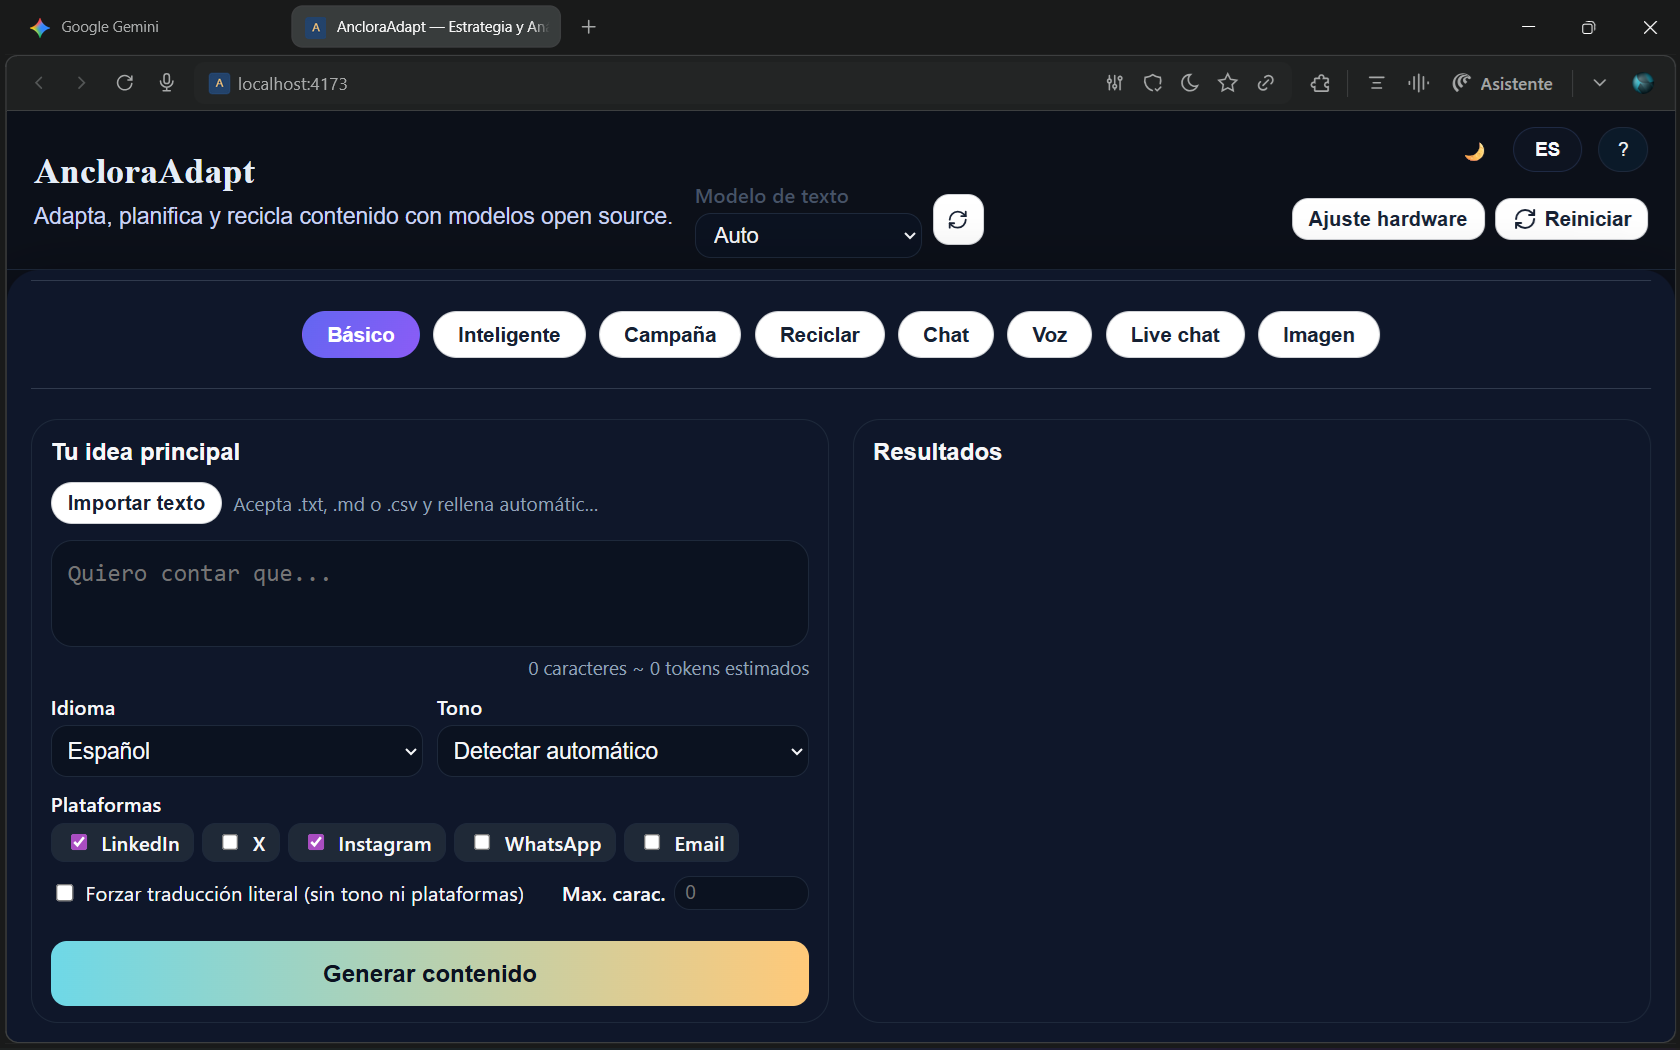
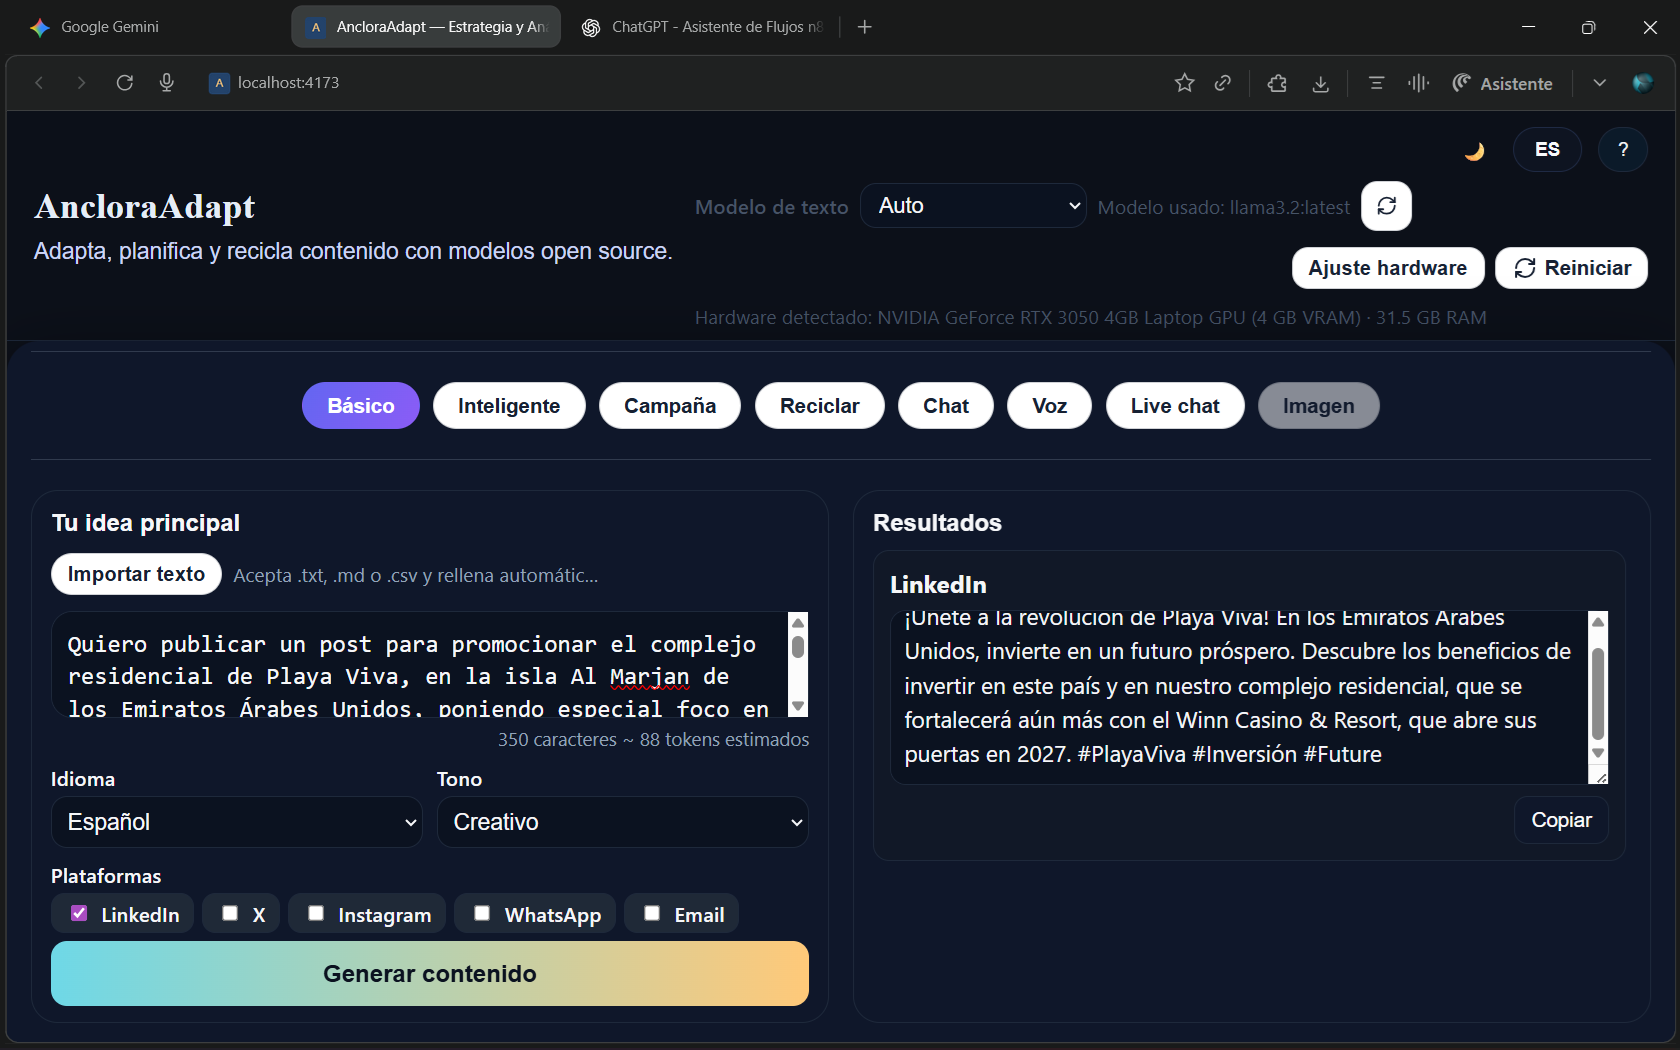
- Reconfiguré la barra superior: el selector del modelo y el botón de actualizar están dentro     del mismo bloque horizontal, así que ahora permanecen alineados cuando se muestra “Modelo     usado”. Tras ellos siguen los botones “Ajuste hardware” y “Reiniciar”.   - La línea de estado inferior (sett

diff --git a/src/components/layout/MainLayout.tsx b/src/components/layout/MainLayout.tsx
@@ -153,56 +153,53 @@ const MainLayout: React.FC<MainLayoutProps> = ({
               >
                 {modelCopy.label || "Modelo Texto"}
               </label>
-              <select
-                id="text-model-select"
-                value={textModelId}
-                onChange={(event) => onTextModelChange(event.target.value)}
-                style={{
-                  ...commonStyles.select,
-                  padding: "6px 10px",
-                  fontSize: "0.9em",
-                  minWidth: "170px",
-                  width: "auto",
-                }}
-              >
-                {modelOptions.map((model) => (
-                  <option key={model} value={model}>
-                    {model === "auto" ? modelCopy.auto || "Auto" : model}
-                  </option>
-                ))}
-              </select>
-              {lastModelUsed && (
-                <span style={commonStyles.settingsHint}>
-                  {(modelCopy.lastUsed || "Modelo usado")}: {lastModelUsed}
-                </span>
-              )}
-              <button
-                type="button"
-                style={{
-                  ...commonStyles.resetButton,
-                  padding: "6px 10px",
-                  width: "38px",
-                  height: "38px",
-                  display: "flex",
-                  alignItems: "center",
-                  justifyContent: "center",
-                }}
-                onClick={() => void onRefreshModels()}
-                disabled={isRefreshingModels}
-                title={modelCopy.refresh}
-                aria-label={modelCopy.refresh}
-                aria-busy={isRefreshingModels}
-              >
-                <RefreshCw
-                  size={16}
+              <div style={{ display: "flex", alignItems: "center", gap: "6px" }}>
+                <select
+                  id="text-model-select"
+                  value={textModelId}
+                  onChange={(event) => onTextModelChange(event.target.value)}
                   style={{
-                    color: "var(--tab-text, #162032)",
-                    animation: isRefreshingModels
-                      ? "spin 0.9s linear infinite"
-                      : undefined,
+                    ...commonStyles.select,
+                    padding: "6px 10px",
+                    fontSize: "0.9em",
+                    minWidth: "170px",
+                    width: "auto",
                   }}
-                />
-              </button>
+                >
+                  {modelOptions.map((model) => (
+                    <option key={model} value={model}>
+                      {model === "auto" ? modelCopy.auto || "Auto" : model}
+                    </option>
+                  ))}
+                </select>
+                <button
+                  type="button"
+                  style={{
+                    ...commonStyles.resetButton,
+                    padding: "6px 10px",
+                    width: "38px",
+                    height: "38px",
+                    display: "flex",
+                    alignItems: "center",
+                    justifyContent: "center",
+                  }}
+                  onClick={() => void onRefreshModels()}
+                  disabled={isRefreshingModels}
+                  title={modelCopy.refresh}
+                  aria-label={modelCopy.refresh}
+                  aria-busy={isRefreshingModels}
+                >
+                  <RefreshCw
+                    size={16}
+                    style={{
+                      color: "var(--tab-text, #162032)",
+                      animation: isRefreshingModels
+                        ? "spin 0.9s linear infinite"
+                        : undefined,
+                    }}
+                  />
+                </button>
+              </div>
             </div>
 
             <div style={commonStyles.settingsActions}>
@@ -235,11 +232,18 @@ const MainLayout: React.FC<MainLayoutProps> = ({
               </button>
             </div>
           </div>
-          {hardwareSummary && (
+          {(hardwareSummary || lastModelUsed) && (
             <div style={commonStyles.settingsInfoRow}>
-              <span style={commonStyles.settingsHint}>
-                {(modelCopy.hardwareDetected || "Hardware detectado")}: {hardwareSummary}
-              </span>
+              {hardwareSummary && (
+                <span style={commonStyles.settingsHint}>
+                  {(modelCopy.hardwareDetected || "Hardware detectado")}: {hardwareSummary}
+                </span>
+              )}
+              {lastModelUsed && (
+                <span style={commonStyles.settingsHint}>
+                  {(modelCopy.lastUsed || "Modelo usado")}: {lastModelUsed}
+                </span>
+              )}
             </div>
           )}
         </div>
